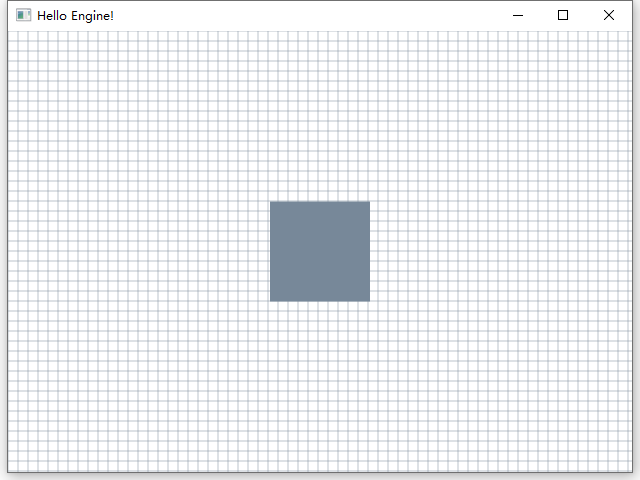
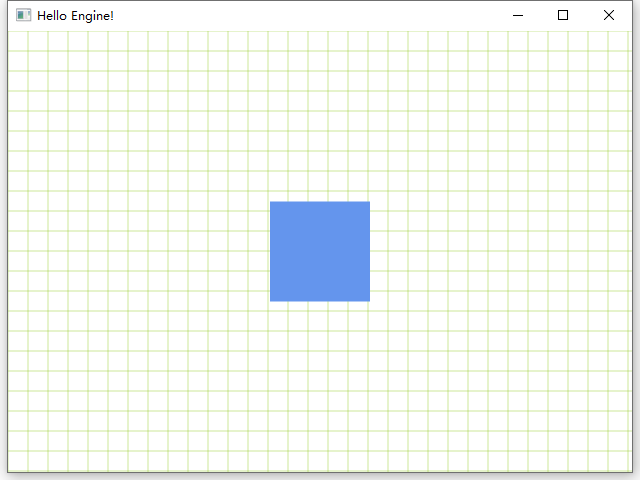
change

diff --git a/Platform/helloengine_d2d.cpp b/Platform/helloengine_d2d.cpp
@@ -211,7 +211,7 @@ HRESULT DemoApp::CreateDeviceResources()
         {
             // Create a gray brush.
             hr = m_pRenderTarget->CreateSolidColorBrush(
-                D2D1::ColorF(D2D1::ColorF::LightSlateGray),
+                D2D1::ColorF(D2D1::ColorF(0x9ACD32, 1.0f)),
                 &m_pLightSlateGrayBrush
             );
         }
@@ -329,7 +329,7 @@ HRESULT DemoApp::OnRender()
         int width = static_cast<int>(rtSize.width);
         int height = static_cast<int>(rtSize.height);
 
-        for (int x = 0; x < width; x += 10)
+        for (int x = 0; x < width; x += 20)
         {
             m_pRenderTarget->DrawLine(
                 D2D1::Point2F(static_cast<FLOAT>(x), 0.0f),
@@ -339,7 +339,7 @@ HRESULT DemoApp::OnRender()
             );
         }
 
-        for (int y = 0; y < height; y += 10)
+        for (int y = 0; y < height; y += 20)
         {
             m_pRenderTarget->DrawLine(
                 D2D1::Point2F(0.0f, static_cast<FLOAT>(y)),
@@ -365,7 +365,7 @@ HRESULT DemoApp::OnRender()
         );
 
         // Draw a filled rectangle.
-        m_pRenderTarget->FillRectangle(&rectangle1, m_pLightSlateGrayBrush);
+        m_pRenderTarget->FillRectangle(&rectangle1, m_pCornflowerBlueBrush);
 
         hr = m_pRenderTarget->EndDraw();
     }
